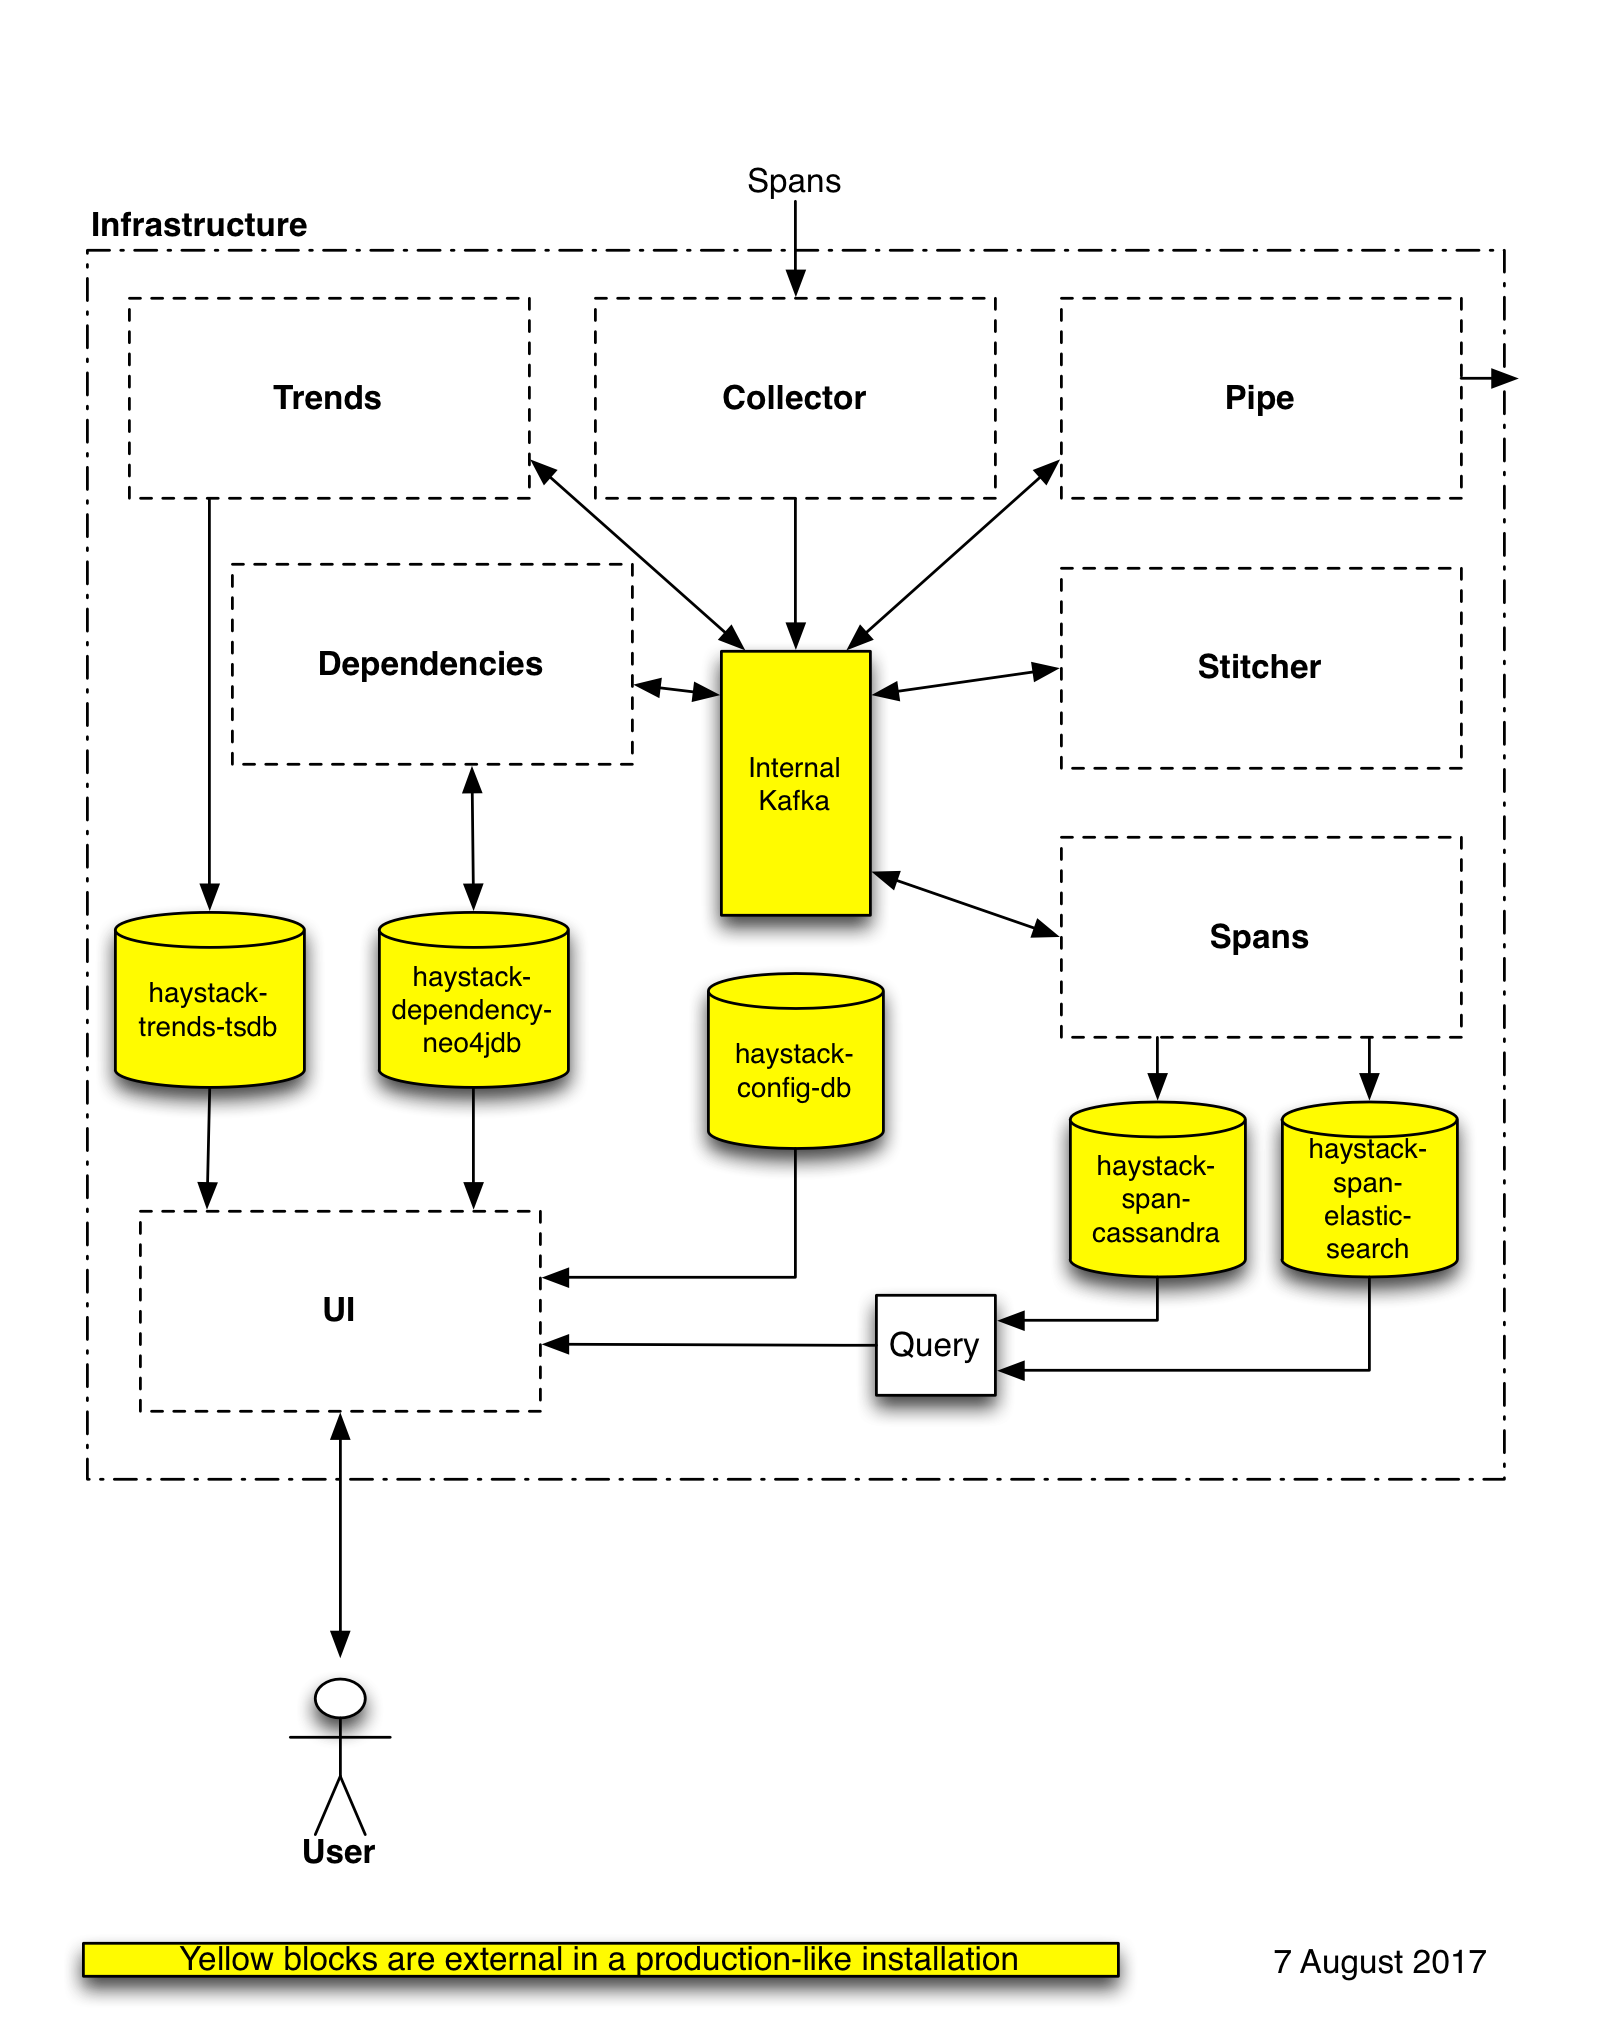
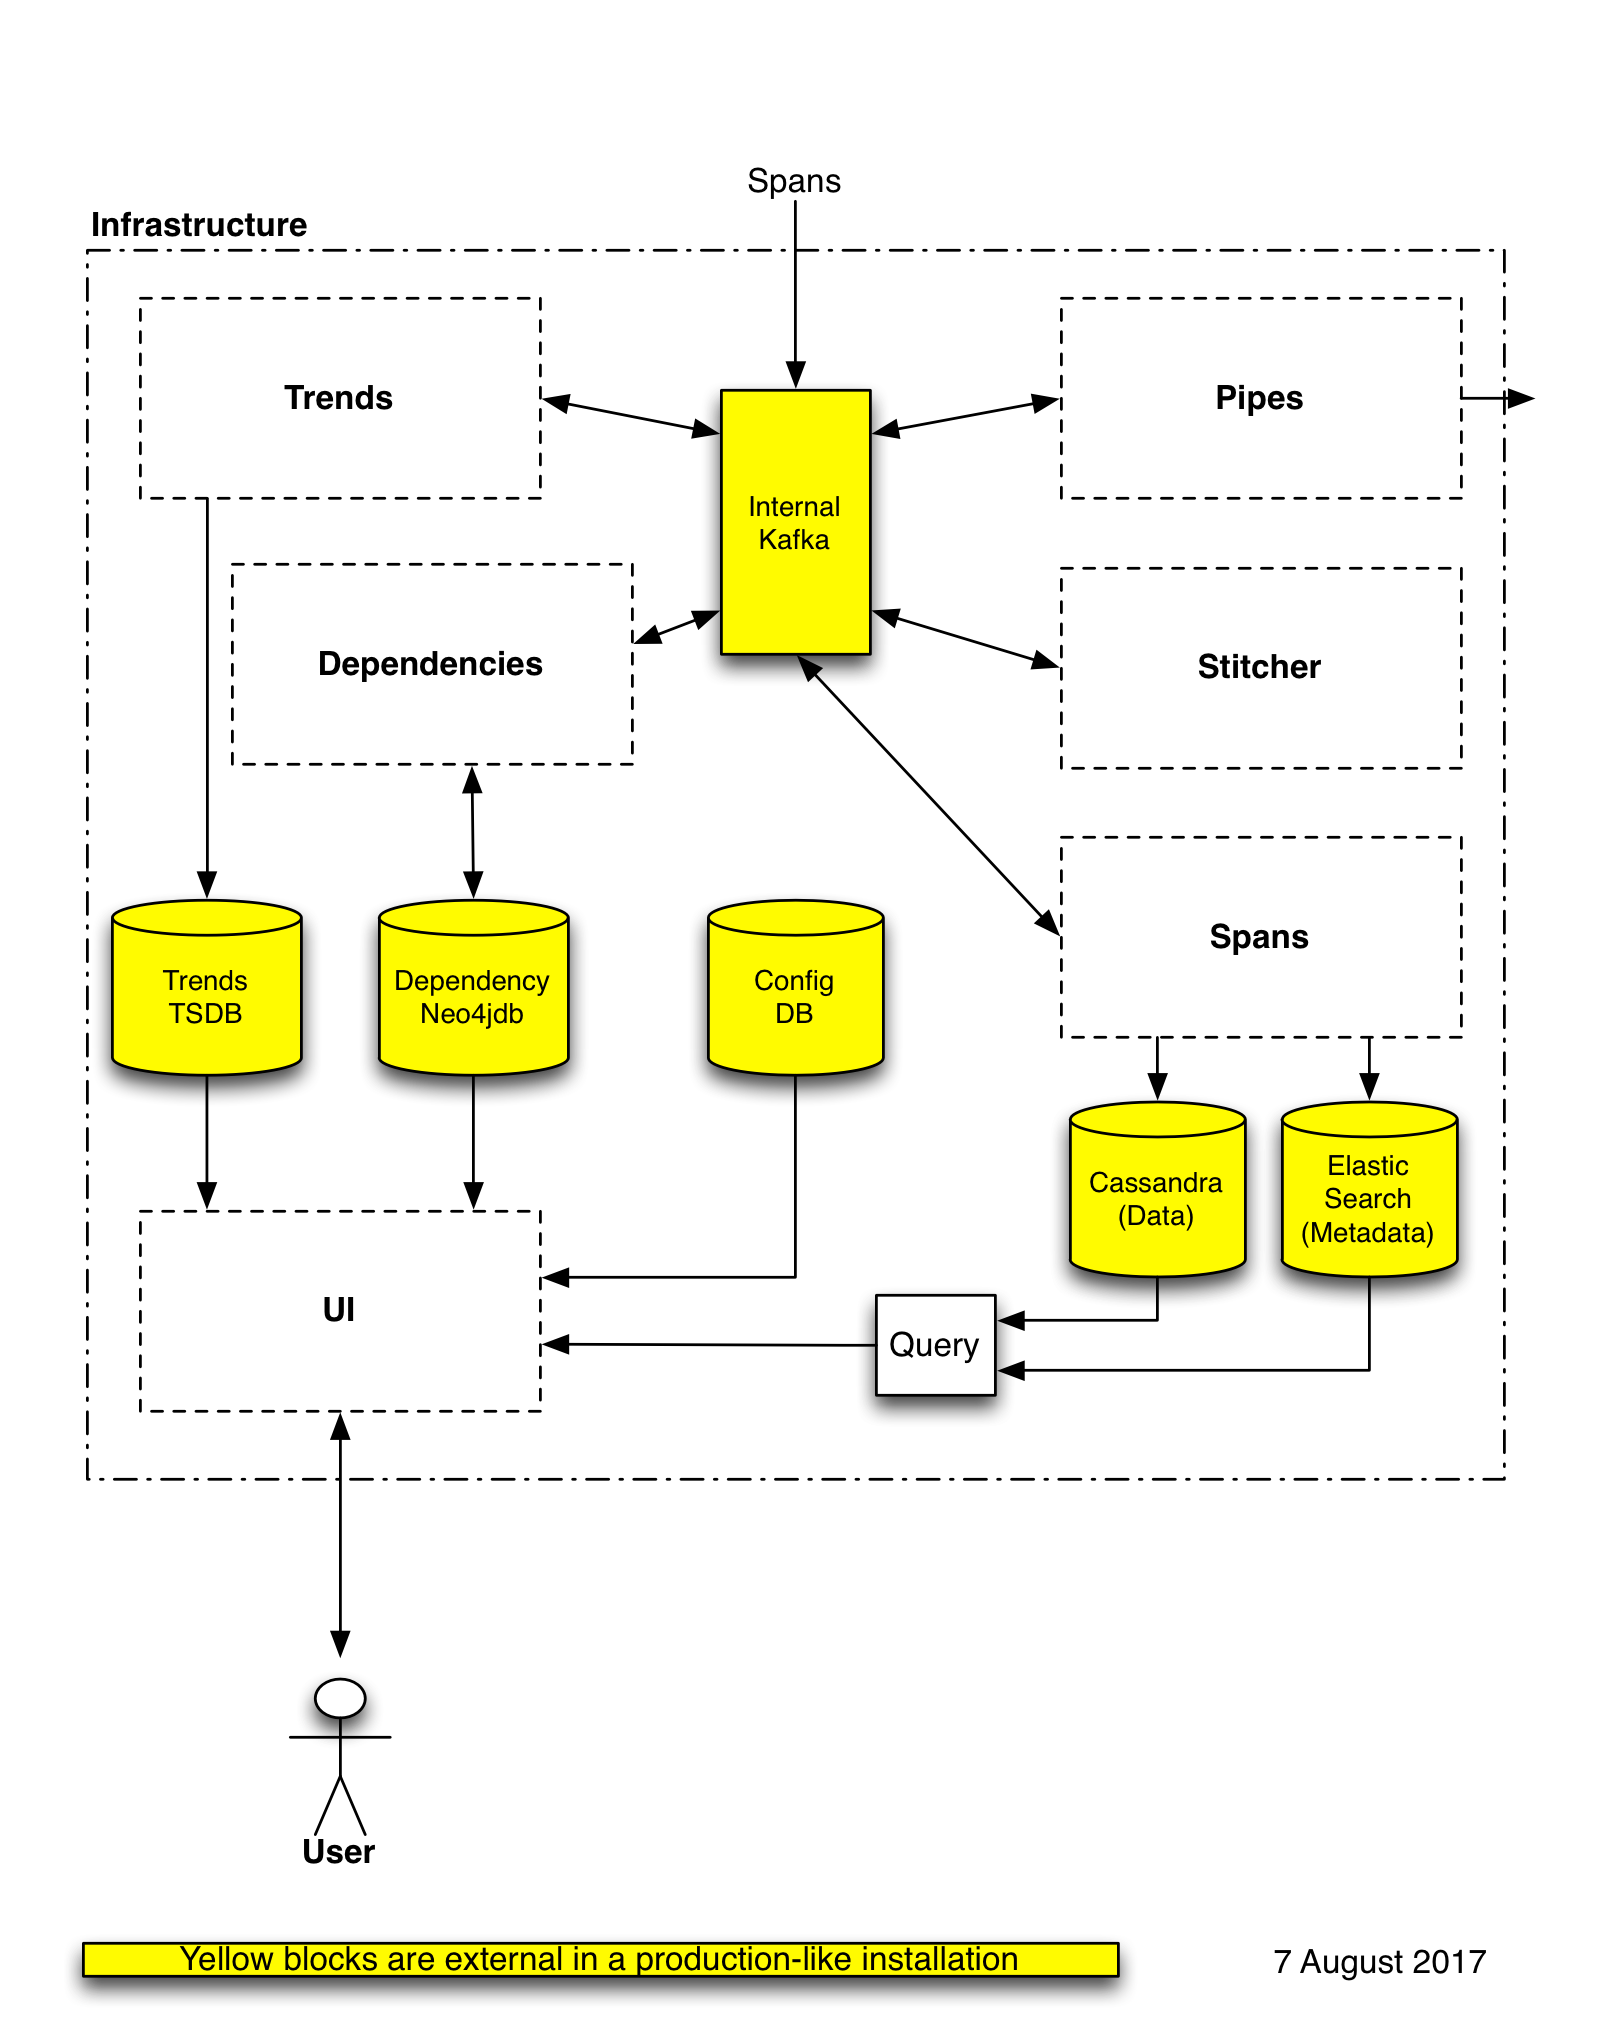
Simplify the top level README.md, making small diagram changes required by the simplifications (like removing Collector from the diagram)

diff --git a/README.md b/README.md
@@ -1,75 +1,53 @@
 # haystack
-Repository for public open source Haystack
+Topmost level repository for public open source Haystack
 
 ## Overview
 [Haystack](https://github.com/ExpediaDotCom/haystack) is an Expedia-backed open source project to facilitate detection 
 and remediation of problems with enterprise-level web services and websites.
 
-There was a version 1 of Haystack, internal to Expedia, used by different teams. Version 1 leveraged existing software 
-([Kibana],(https://en.wikipedia.org/wiki/Kibana) Expedia's Doppler, [Zipkin](http://zipkin.io/)) without the need to 
-build significant pieces of UI. Version 2 adds new UI and features, but has similar use cases and goals.
-  
 ### The Problem
-Expedia customers rely on hundreds of services to book their travel. These services are spread across many platforms, 
-data centers and teams. Each service logs information. There are different types of logs (they can be categorized in 
-different ways; the list below is one such way) 
+Modern websites rely on dozens or even hundreds of services to function. These services are often spread across many
+platforms, data centers, and teams. Each service logs information. There are different types of logs (they can be 
+categorized in different ways; the list below is one such way) 
 1. Metrics (typically counts and durations), 
 2. Application logs (interesting information emitted by the service, usually via log4j or a similar system)
 3. Transaction logs (key/value pairs of significant events in the system)
 4. Request/response logs (the XML, JSON, etc. sent to and from the service)
 
-Historically, Expedia services sent metrics to [graphite](https://graphiteapp.org/), but most applications also dumped
-logs into Splunk so that we could troubleshoot issues and see trends. Splunk was an expensive place to store terabytes
-of logs, and debugging was still difficult: 
+Haystack is intended to help users make sense of the information in these logs, particularly when things are not
+working quite right (too slow, failing service calls, etc.): to find "the needle in the haystack" (thus the name).
 
-1. We were unable to correlate and trace the service calls invoked by a customer request across the entire stack, making
-it both difficult and time-consuming to resolve live site issues and improve system performance. 
-2. Splunk required knowledge of 
-    * the right instance to use (there was too much data for one Splunk installation to consume!) 
-    * the Splunk query language
-    * the logging formats used by the particular service. 
-3. Some of the request/response pairs logged were too big for Splunk. Solutions for this problem included:
-    * [ELK](https://www.elastic.co/webinars/introduction-elk-stack)
-    * stashing data in S3
-    * a homegrown CRSLogs system
-    
 ### The Solution
 ![High Level Block Diagram](documentation/diagrams/Haystack%20Components.png)
-
 Below find information about components in the block diagram above.
 
-#### Clients and Kinesis
-Clients of Expedia Haystack send data to a [Kinesis](https://aws.amazon.com/kinesis/) stream. Using Kinesis facilitates
-communication across different [VPCs](https://aws.amazon.com/vpc/). The data sent to Kinesis must conform to the Expedia
-[Interface Description Language (IDL)](https://en.wikipedia.org/wiki/IDL_specification_language) whose details can be 
-found in [the haystack-idl github repository](https://github.com/ExpediaDotCom/haystack-idl).
 #### Infrastructure
 The Haystack system includes an easy-to-use "one click" deployment mechanism, based on 
 [Kubernetes](https://en.wikipedia.org/wiki/Kubernetes), that deploys a working development environment with working
 implementations of all of the services in the block diagram above. This same mechanism, with different configurations, 
 deploys to test and production environments as well. See the collection of scripts, CloudFormation templates, and YAML 
-files in the [haystack-deployment](https://github.com/ExpediaInc/haystack-deployment) repository for details.
-#### Collector
+files in the [haystack-deployment](https://github.com/ExpediaDotCom/haystack-deployment) repository for details.
+
 #### Kafka
+Internal[Kafka](https://en.wikipedia.org/wiki/Apache_Kafka) is the Haystack message bus. The messages that enter the
+Haystack system are [Span](https://github.com/ExpediaDotCom/haystack-idl/blob/master/proto/span.proto) objects in
+[protobuf](https://en.wikipedia.org/wiki/Protocol_Buffers) format, and the modules below usually communicate with
+each other via this message bus.
+
 #### Trends
-The Trends unit detects anomalies in metrics, based on user-defined "trend templates" that define the levels at which
+The Trends module detects anomalies in metrics, based on user-defined "trend templates" that define the levels at which
 metrics should be considered "out of trend." A single anomalous metric does not necessarily merit alarming as out of
 trend, so the Trends unit aggregates as directed by the trend templates. For example, a particular service call might
 have a typically TP99 value of 100 milliseconds. ("TP" means "top percentile" and TP99 refers to the minimum time under 
 which 99% of the calls to the service have finished.) The trend template for such a service might declare that the TP99
 metric is out of trend when it exceeds 150 milliseconds, a value that was chosen to be low enough to notify interested
-parties of a potential problem but high enough to minimize false positive alarms. The Trends unit contains the following
-packages:
-1. [haystack-span-timeseries-mapper](https://github.com/ExpediaDotCom/haystack-span-timeseries-mapper): reads spans from
-Kafka and aggregates them by service name and span name. The aggregated values are written to another Kafka topic.
-2. [haystack-timeseries-aggregator](https://github.com/ExpediaDotCom/haystack-timeseries-aggregator)
-#### Stitcher
-#### Spans
-#### Dependencies
-#### External
-The External unit delivers a human-friendly version of Haystack messages to zero or more "durable" locations for more
+parties of a potential problem but high enough to minimize false positive alarms. The Trends module stores its data
+in a Time Series Data Base (TSDB).
+
+#### Pipes
+The Pipes module delivers a human-friendly JSON version of Haystack spans to zero or more "durable" locations for more
 permanent storage. Current "plug in" candidates for such storage include:
-1. [Amazon Kinesis Firehose](https://aws.amazon.com/kinesis/firehose/) is an AWS service that facilitates loading 
+* [Amazon Kinesis Firehose](https://aws.amazon.com/kinesis/firehose/) is an AWS service that facilitates loading 
 streaming data into AWS. Note that its 
 [PutRecordBatch API](http://docs.aws.amazon.com/firehose/latest/APIReference/API_PutRecordBatch.html) accepts up to
 500 records, with a maximum size of 4 MB for each put request. The plug in will batch the records appropriately.
@@ -77,14 +55,25 @@ Kinesis Firehose can be configured to deliver the data to
     * [Amazon S3](https://aws.amazon.com/s3/)
     * [Amazon Redshift](https://aws.amazon.com/redshift/)
     * [Amazon Elasticsearch Service](https://aws.amazon.com/elasticsearch-service/)
-2. Doppler Time Series (DTS) is an Expedia Time Series Database (TSDB) written on top of Cassandra and ElasticSearch. 
 
-The [haystack-external-json-transformer](https://github.com/ExpediaDotCom/haystack-external-json-transformer) package is
-a lightweight service that uses [Kafka Streams](https://kafka.apache.org/documentation/streams/) to read the protobuf 
-records from Kafka, transform them to JSON, and write them to another topic in Kafka. The plugins will then consume
-from the latter topic, and then write the JSON records just consumed to their destinations.
-#### User Interface
-The mock UI is visible at http://haystack-web.test.expedia.com/.
-Packages in the Haystack UI System:
-1. [haystack-ui](https://github.com/ExpediaDotCom/haystack-ui)
-2. [haystack-trace-query](https://github.com/ExpediaDotCom/haystack-trace-query)
+#### Stitcher
+The Stitcher module collects related Span objects into
+[StitchedSpan](https://github.com/ExpediaDotCom/haystack-idl/blob/master/proto/stichedSpan.proto) protobuf objects which
+are written to the Kafka message bus. The Span objects are identified as related by the parent span IDs; the Span with a
+null parent Span ID is the root Span, child Spans have a parent Span ID of the root Span, grandchild Spans have a
+parent span ID of the appropriate child Span, etc.
+
+#### Spans
+The Spans module writes Span objects into a persistent store. That persistent store consists of two pieces: the Span
+data is stored in Cassandra, and the Span metadata is stored in ElasticSearch. Sampling, with the ability to force
+storing a particular Span, will be required to keep the size of the Cassandra and ElasticSearch stores reasonable, given
+the large volume of Span objects in a production system. 
+
+#### Dependencies
+The Dependencies module uses the parent/child relationships of Span objects to create dependency graphs for each
+service, stored in a [Neo4j](https://en.wikipedia.org/wiki/Neo4j) graph database.
+
+#### UI
+The UI (User Interface) module exposes the spans, stiched spans, trends, and dependencies created by the other modules
+on a website. To simplify the API from the UI module to the Span databases, a small Query module bundles the data from
+the Cassandra store with the metadata from the ElasticSearch store.
